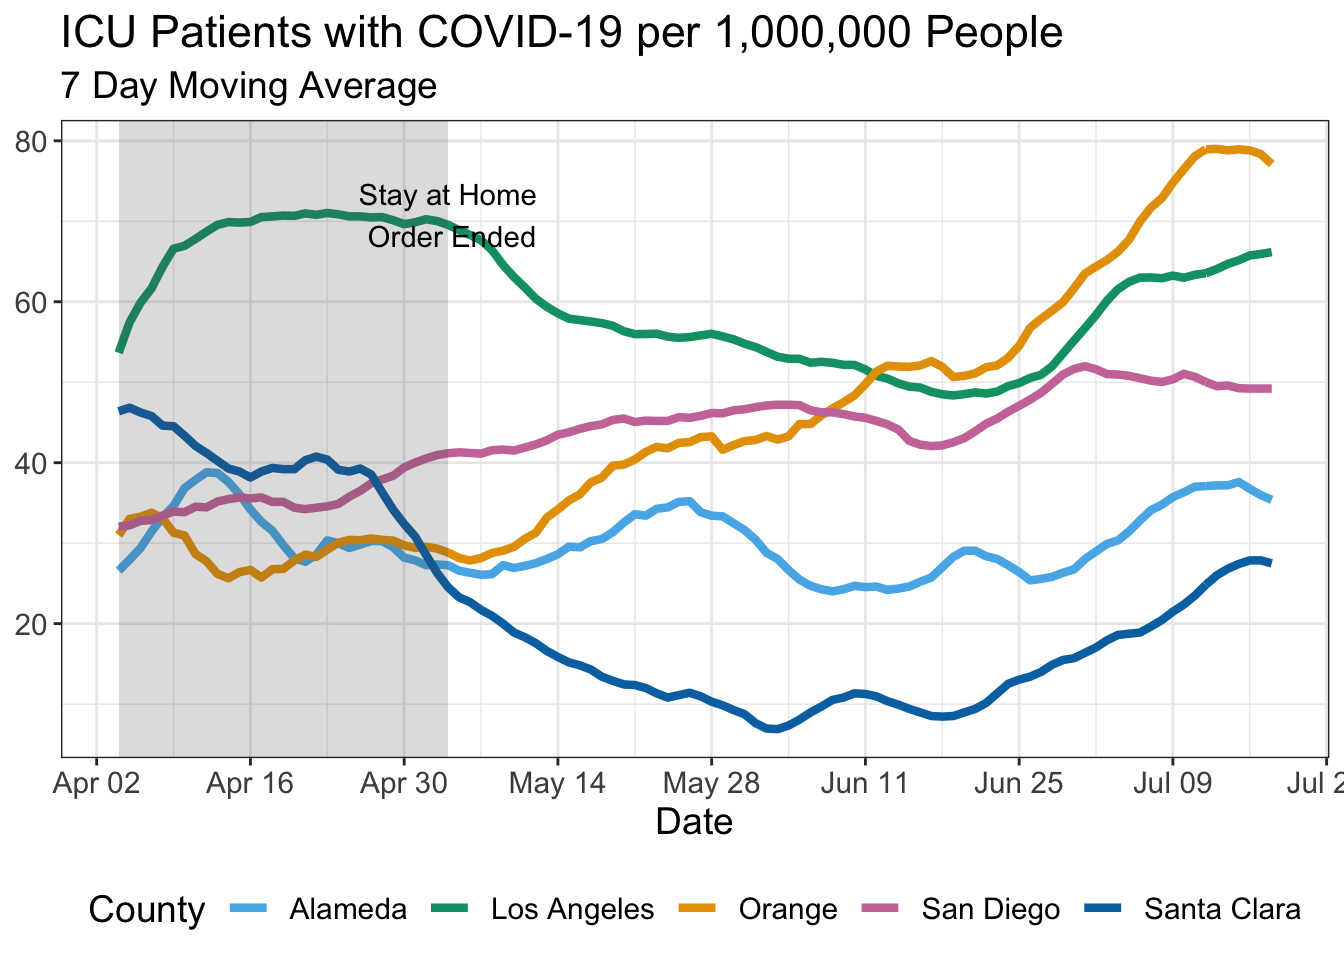
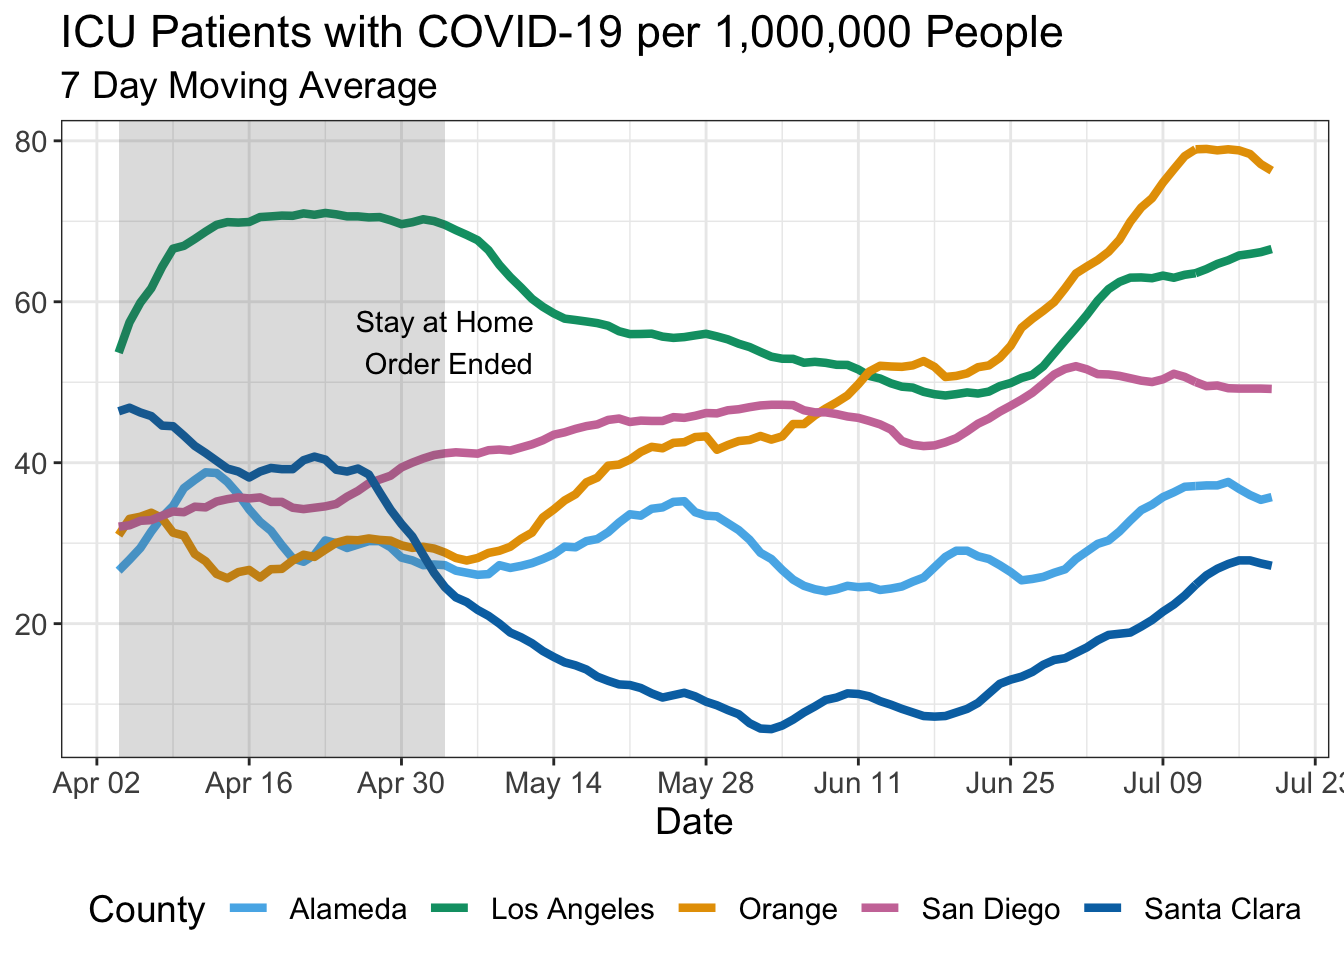
Fix Stay at Home text position

diff --git a/docs/index.html b/docs/index.html
@@ -315,7 +315,7 @@ $(document).ready(function () {
 
 <p>
 <button type="button" class="btn btn-default btn-workflowr btn-workflowr-report" data-toggle="collapse" data-target="#workflowr-report">
-<span class="glyphicon glyphicon-list" aria-hidden="true"></span> workflowr <span class="glyphicon glyphicon-ok text-success" aria-hidden="true"></span>
+<span class="glyphicon glyphicon-list" aria-hidden="true"></span> workflowr <span class="glyphicon glyphicon-exclamation-sign text-danger" aria-hidden="true"></span>
 </button>
 </p>
 <div id="workflowr-report" class="collapse">
@@ -324,7 +324,7 @@ $(document).ready(function () {
 <a data-toggle="tab" href="#summary">Summary</a>
 </li>
 <li>
-<a data-toggle="tab" href="#checks"> Checks <span class="glyphicon glyphicon-ok text-success" aria-hidden="true"></span> </a>
+<a data-toggle="tab" href="#checks"> Checks <span class="glyphicon glyphicon-exclamation-sign text-danger" aria-hidden="true"></span> </a>
 </li>
 <li>
 <a data-toggle="tab" href="#versions">Past versions</a>
@@ -333,10 +333,10 @@ $(document).ready(function () {
 <div class="tab-content">
 <div id="summary" class="tab-pane fade in active">
 <p>
-<strong>Last updated:</strong> 2020-07-19
+<strong>Last updated:</strong> 2020-07-20
 </p>
 <p>
-<strong>Checks:</strong> <span class="glyphicon glyphicon-ok text-success" aria-hidden="true"></span> 7 <span class="glyphicon glyphicon-exclamation-sign text-danger" aria-hidden="true"></span> 0
+<strong>Checks:</strong> <span class="glyphicon glyphicon-ok text-success" aria-hidden="true"></span> 6 <span class="glyphicon glyphicon-exclamation-sign text-danger" aria-hidden="true"></span> 1
 </p>
 <p>
 <strong>Knit directory:</strong> <code>uci_covid19_dashboard/</code> <span class="glyphicon glyphicon-question-sign" aria-hidden="true" title="This is the local directory in which the code in this file was executed."> </span>
@@ -352,12 +352,12 @@ This reproducible <a href="http://rmarkdown.rstudio.com">R Markdown</a> analysis
 <div class="panel panel-default">
 <div class="panel-heading">
 <p class="panel-title">
-<a data-toggle="collapse" data-parent="#workflowr-checks" href="#strongRMarkdownfilestronguptodate"> <span class="glyphicon glyphicon-ok text-success" aria-hidden="true"></span> <strong>R Markdown file:</strong> up-to-date </a>
+<a data-toggle="collapse" data-parent="#workflowr-checks" href="#strongRMarkdownfilestronguncommittedchanges"> <span class="glyphicon glyphicon-exclamation-sign text-danger" aria-hidden="true"></span> <strong>R Markdown file:</strong> uncommitted changes </a>
 </p>
 </div>
-<div id="strongRMarkdownfilestronguptodate" class="panel-collapse collapse">
+<div id="strongRMarkdownfilestronguncommittedchanges" class="panel-collapse collapse">
 <div class="panel-body">
-<p>Great! Since the R Markdown file has been committed to the Git repository, you know the exact version of the code that produced these results.</p>
+<p>The R Markdown file has unstaged changes. To know which version of the R Markdown file created these results, you’ll want to first commit it to the Git repo. If you’re still working on the analysis, you can ignore this warning. When you’re finished, you can run <code>wflow_publish</code> to commit the R Markdown file and build the HTML.</p>
 </div>
 </div>
 </div>
@@ -424,16 +424,16 @@ This reproducible <a href="http://rmarkdown.rstudio.com">R Markdown</a> analysis
 <div class="panel panel-default">
 <div class="panel-heading">
 <p class="panel-title">
-<a data-toggle="collapse" data-parent="#workflowr-checks" href="#strongRepositoryversionstrongahrefhttpsgithubcomdamonbayerucicovid19dashboardtree32aeff84fcffb4f0bf4f5a7752939bb5a20423aftargetblank32aeff8a"> <span class="glyphicon glyphicon-ok text-success" aria-hidden="true"></span> <strong>Repository version:</strong> <a href="https://github.com/damonbayer/uci_covid19_dashboard/tree/32aeff84fcffb4f0bf4f5a7752939bb5a20423af" target="_blank">32aeff8</a> </a>
+<a data-toggle="collapse" data-parent="#workflowr-checks" href="#strongRepositoryversionstrongahrefhttpsgithubcomdamonbayerucicovid19dashboardtree536980408273516105830230fb9e99795331f4e5targetblank5369804a"> <span class="glyphicon glyphicon-ok text-success" aria-hidden="true"></span> <strong>Repository version:</strong> <a href="https://github.com/damonbayer/uci_covid19_dashboard/tree/536980408273516105830230fb9e99795331f4e5" target="_blank">5369804</a> </a>
 </p>
 </div>
[2 lines of base64/hex data omitted]
 <div class="panel-body">
 <p>
 Great! You are using Git for version control. Tracking code development and connecting the code version to the results is critical for reproducibility.
 </p>
 <p>
-The results in this page were generated with repository version <a href="https://github.com/damonbayer/uci_covid19_dashboard/tree/32aeff84fcffb4f0bf4f5a7752939bb5a20423af" target="_blank">32aeff8</a>. See the <em>Past versions</em> tab to see a history of the changes made to the R Markdown and HTML files.
+The results in this page were generated with repository version <a href="https://github.com/damonbayer/uci_covid19_dashboard/tree/536980408273516105830230fb9e99795331f4e5" target="_blank">5369804</a>. See the <em>Past versions</em> tab to see a history of the changes made to the R Markdown and HTML files.
 </p>
 <p>
 Note that you need to be careful to ensure that all relevant files for the analysis have been committed to Git prior to generating the results (you can use <code>wflow_publish</code> or <code>wflow_git_commit</code>). workflowr only checks the R Markdown file, but you know if there are other scripts or data files that it depends on. Below is the status of the Git repository when the results were generated:
@@ -443,6 +443,9 @@ Ignored files:
     Ignored:    .DS_Store
     Ignored:    .Rhistory
     Ignored:    .Rproj.user/
+
+Unstaged changes:
+    Modified:   analysis/index.Rmd
 
 </code></pre>
 <p>
@@ -481,6 +484,23 @@ Message
 </tr>
 </thead>
 <tbody>
+<tr>
+<td>
+html
+</td>
+<td>
+<a href="https://rawcdn.githack.com/damonbayer/uci_covid19_dashboard/536980408273516105830230fb9e99795331f4e5/docs/index.html" target="_blank">5369804</a>
+</td>
+<td>
+Damon Bayer
+</td>
+<td>
+2020-07-19
+</td>
+<td>
+Update 2020-07-19
+</td>
+</tr>
 <tr>
 <td>
 Rmd
@@ -785,6 +805,17 @@ Date
 <tbody>
 <tr>
 <td>
+<a href="https://github.com/damonbayer/uci_covid19_dashboard/blob/536980408273516105830230fb9e99795331f4e5/docs/figure/index.Rmd/plot-1.png" target="_blank">5369804</a>
+</td>
+<td>
+Damon Bayer
+</td>
+<td>
+2020-07-19
+</td>
+</tr>
+<tr>
+<td>
 <a href="https://github.com/damonbayer/uci_covid19_dashboard/blob/32aeff84fcffb4f0bf4f5a7752939bb5a20423af/docs/figure/index.Rmd/plot-1.png" target="_blank">32aeff8</a>
 </td>
 <td>
@@ -834,6 +865,17 @@ Date
 <tbody>
 <tr>
 <td>
+<a href="https://github.com/damonbayer/uci_covid19_dashboard/blob/536980408273516105830230fb9e99795331f4e5/docs/figure/index.Rmd/plot-2.png" target="_blank">5369804</a>
+</td>
+<td>
+Damon Bayer
+</td>
+<td>
+2020-07-19
+</td>
+</tr>
+<tr>
+<td>
 <a href="https://github.com/damonbayer/uci_covid19_dashboard/blob/bc97c2a90a990bbb5f439d6e9c57f3b70252d2db/docs/figure/index.Rmd/plot-2.png" target="_blank">bc97c2a</a>
 </td>
 <td>
@@ -870,6 +912,17 @@ Date
 </tr>
 </thead>
 <tbody>
+<tr>
+<td>
+<a href="https://github.com/damonbayer/uci_covid19_dashboard/blob/536980408273516105830230fb9e99795331f4e5/docs/figure/index.Rmd/plot-3.png" target="_blank">5369804</a>
+</td>
+<td>
+Damon Bayer
+</td>
+<td>
+2020-07-19
+</td>
+</tr>
 <tr>
 <td>
 <a href="https://github.com/damonbayer/uci_covid19_dashboard/blob/32aeff84fcffb4f0bf4f5a7752939bb5a20423af/docs/figure/index.Rmd/plot-3.png" target="_blank">32aeff8</a>
@@ -921,6 +974,17 @@ Date
 <tbody>
 <tr>
 <td>
+<a href="https://github.com/damonbayer/uci_covid19_dashboard/blob/536980408273516105830230fb9e99795331f4e5/docs/figure/index.Rmd/plot-4.png" target="_blank">5369804</a>
+</td>
+<td>
+Damon Bayer
+</td>
+<td>
+2020-07-19
+</td>
+</tr>
+<tr>
+<td>
 <a href="https://github.com/damonbayer/uci_covid19_dashboard/blob/32aeff84fcffb4f0bf4f5a7752939bb5a20423af/docs/figure/index.Rmd/plot-4.png" target="_blank">32aeff8</a>
 </td>
 <td>
@@ -946,7 +1010,7 @@ Damon Bayer
 </div>
 </div>
 <p>Data collected from the <a href="https://data.ca.gov/group/covid-19">California Open Data Portal</a>.</p>
-<p>Last updated 2020-07-19.</p>
+<p>Last updated 2020-07-20.</p>
 <br>
 <p>
 <button type="button" class="btn btn-default btn-workflowr btn-workflowr-sessioninfo" data-toggle="collapse" data-target="#workflowr-sessioninfo" style="display: block;">
